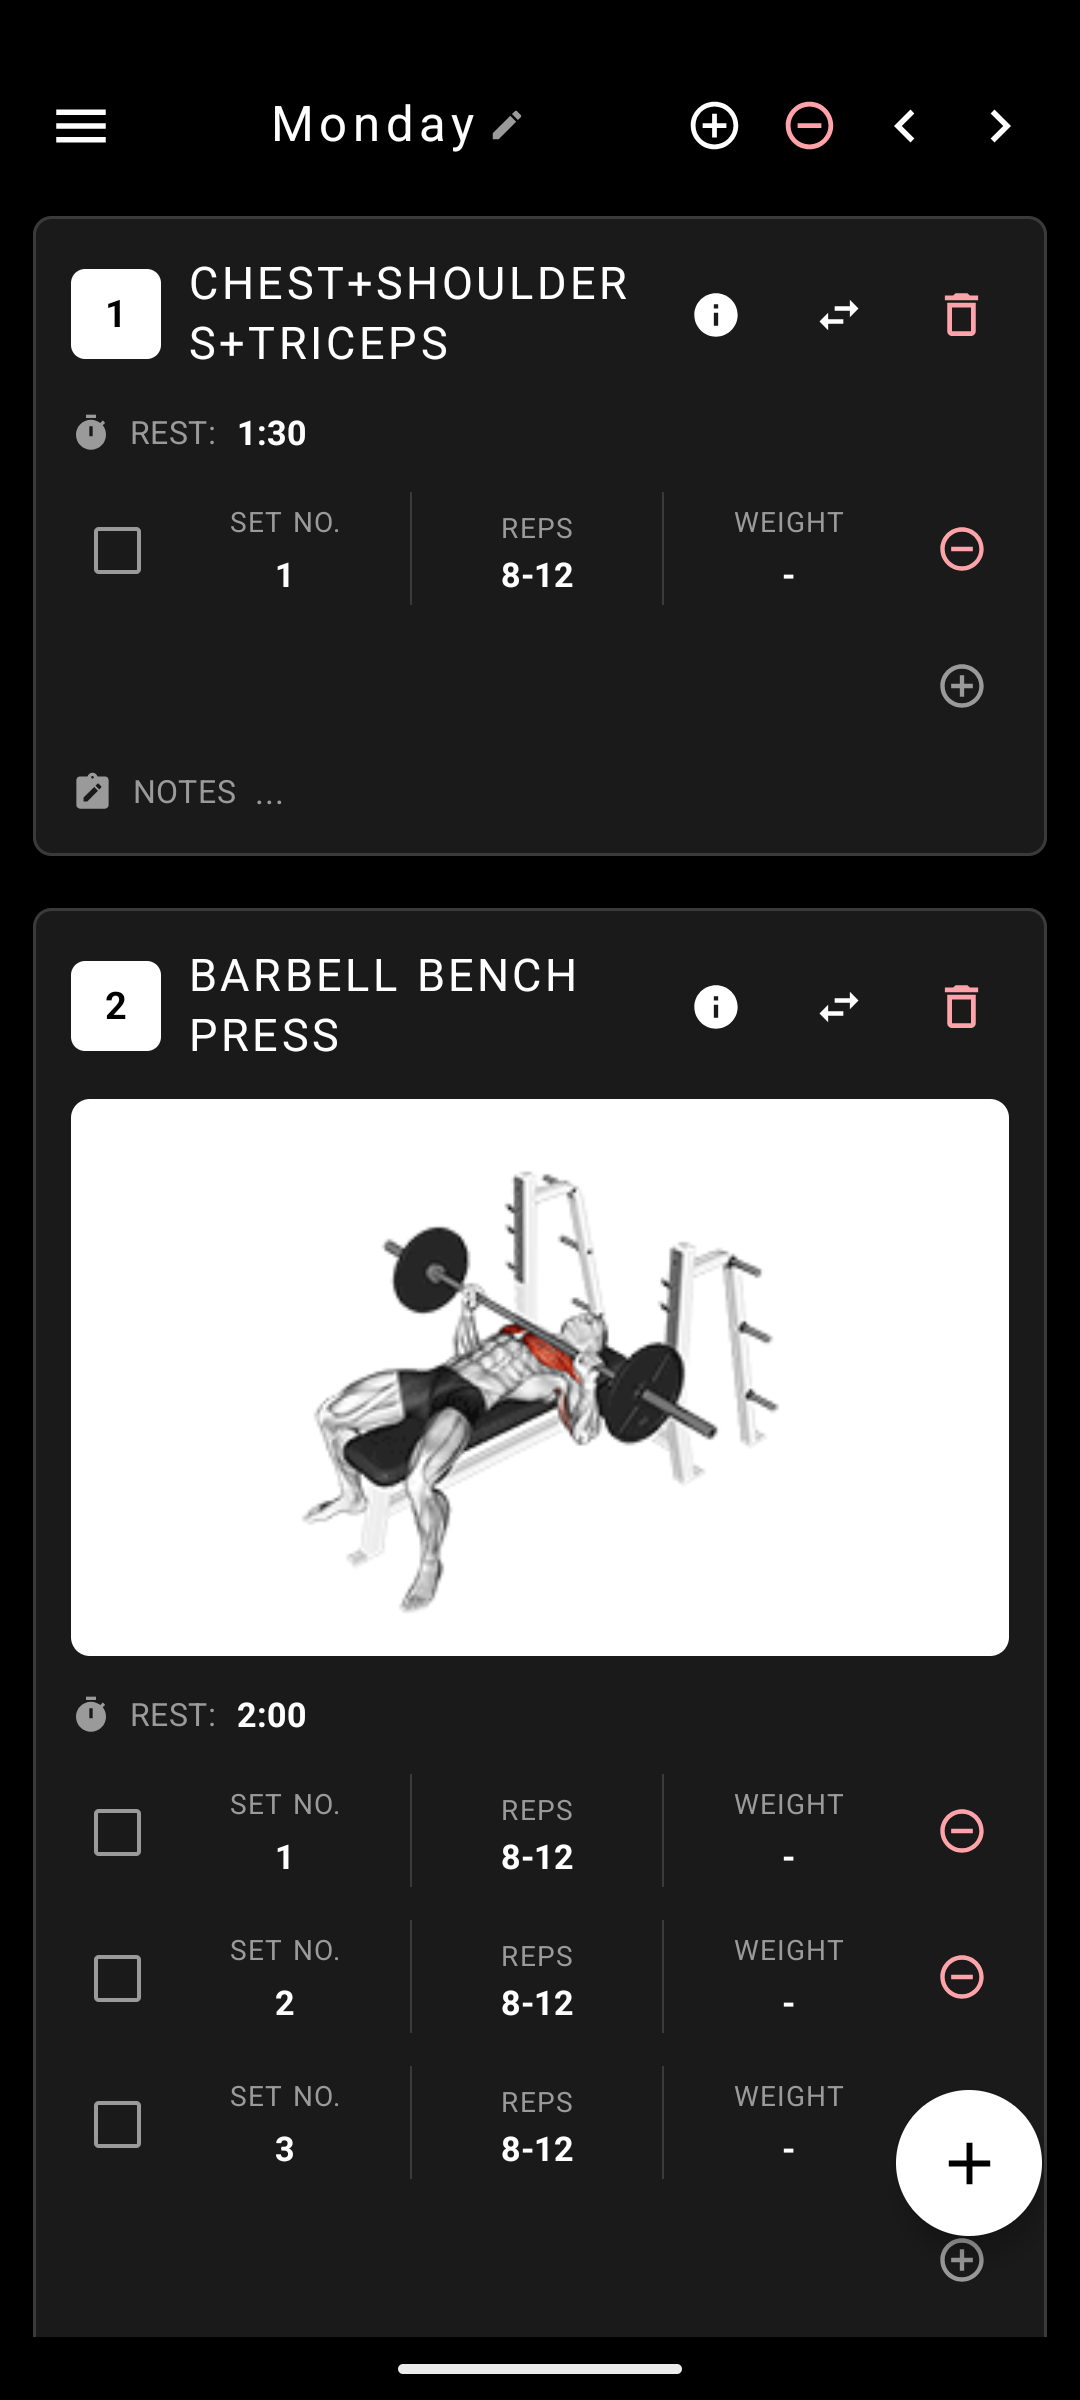
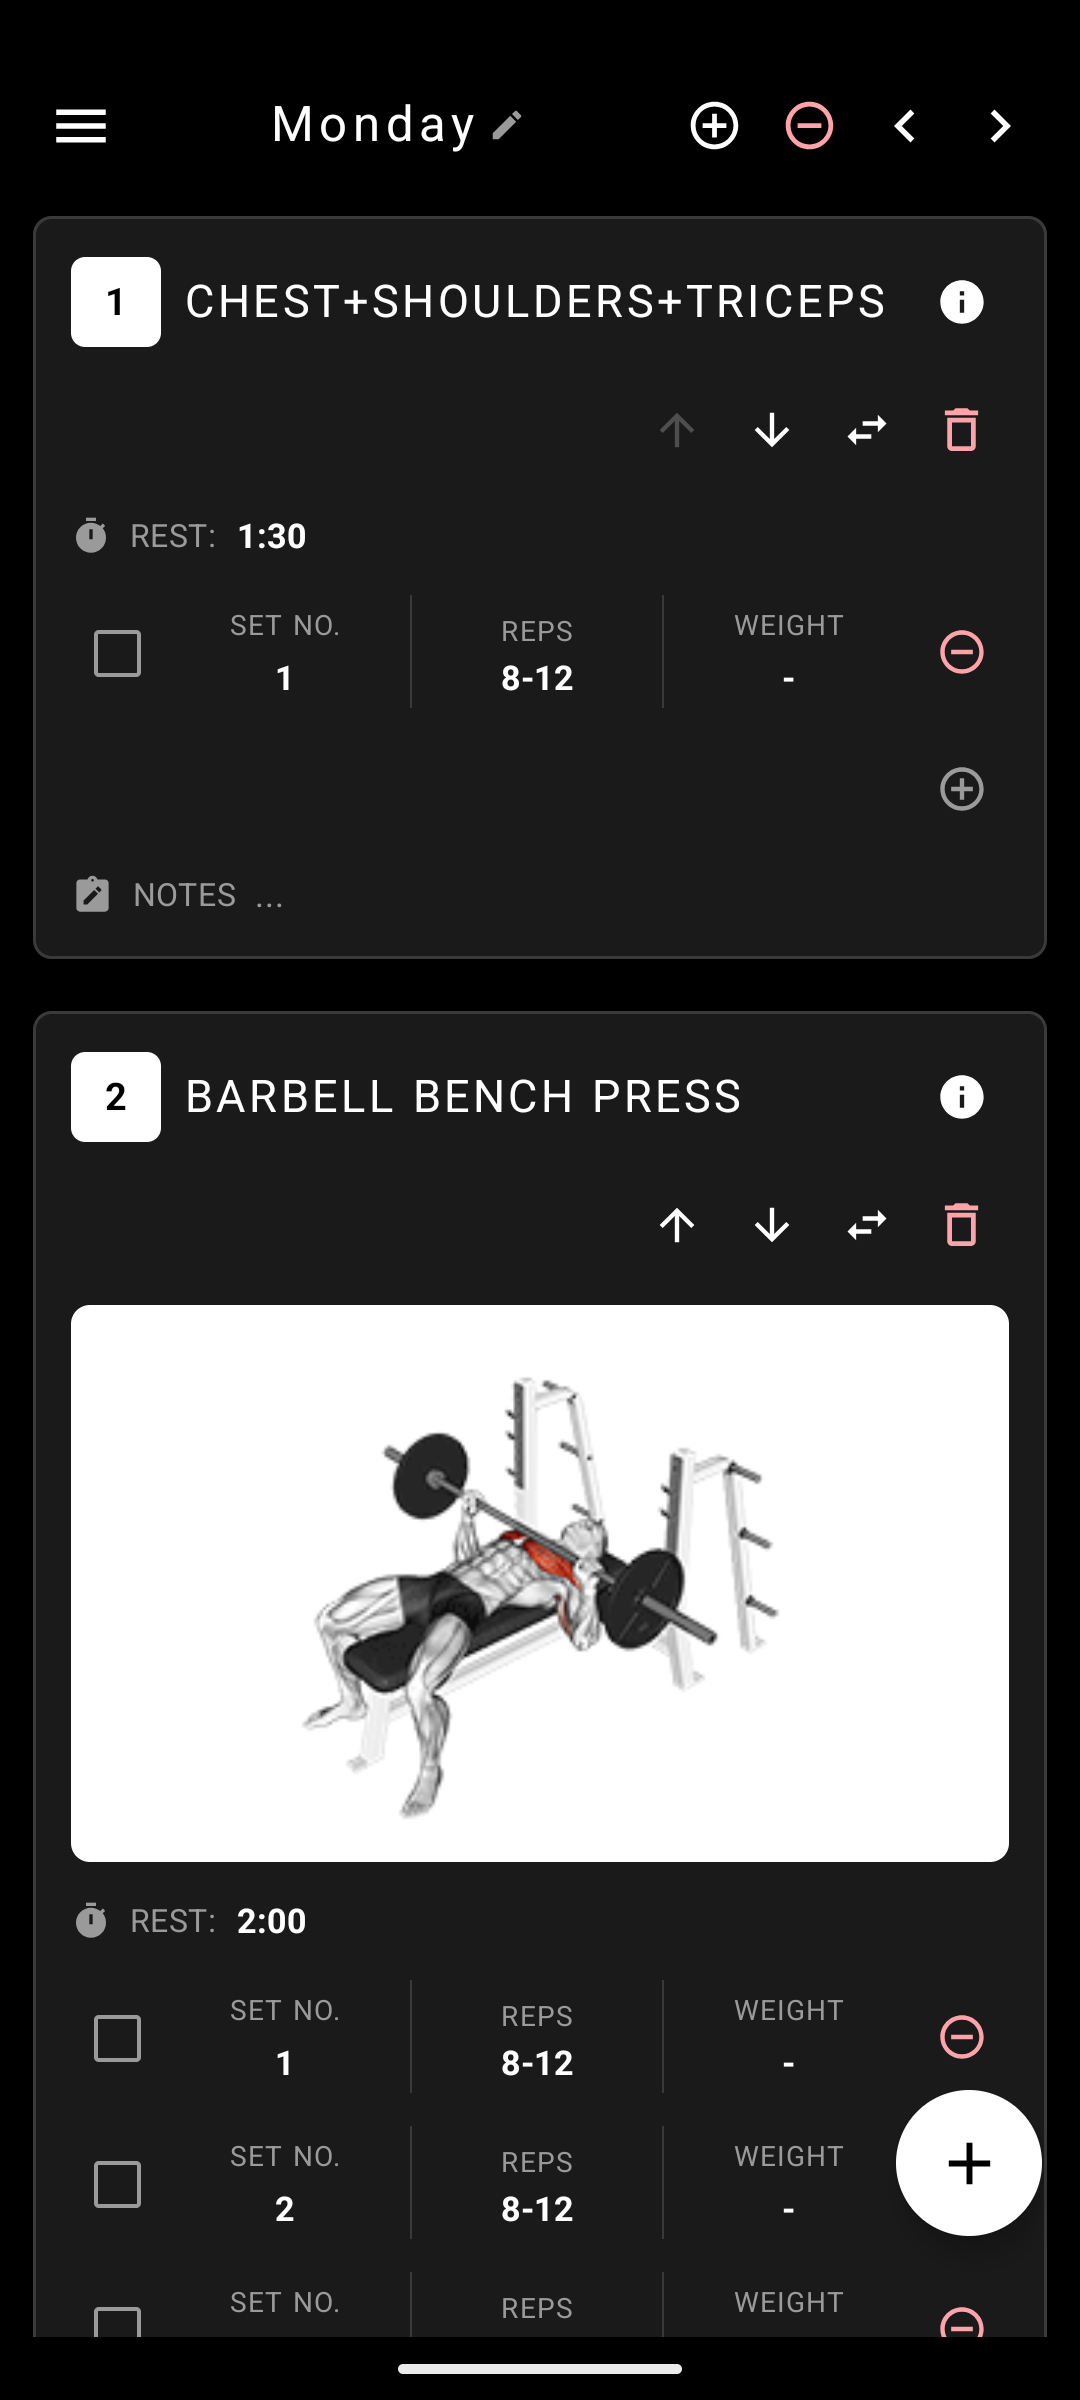
Update README.md and docs images

diff --git a/README.md b/README.md
@@ -7,84 +7,112 @@
 <p align="center">
   A minimal, offline-first gym workout tracker built with Jetpack Compose.
   <br />
-  Create routines, organize workout days, track sets &amp; reps — all from your pocket.
+  Create routines, organize workout days, choose exercises, and track sets, reps, weight, rest, and notes.
 </p>
 
 <p align="center">
   <img src="https://img.shields.io/badge/Platform-Android-3DDC84?logo=android&logoColor=white" alt="Platform" />
   <img src="https://img.shields.io/badge/Min_SDK-26_(Oreo)-blue" alt="Min SDK" />
-  <img src="https://img.shields.io/badge/Kotlin-2.3-7F52FF?logo=kotlin&logoColor=white" alt="Kotlin" />
+  <img src="https://img.shields.io/badge/Kotlin-2.3.21-7F52FF?logo=kotlin&logoColor=white" alt="Kotlin" />
   <img src="https://img.shields.io/badge/Jetpack_Compose-Material_3-4285F4?logo=jetpackcompose&logoColor=white" alt="Compose" />
   <img src="https://img.shields.io/badge/License-Unlicensed-lightgrey" alt="License" />
 </p>
 
 ---
 
-## ✨ Features
+## Features
 
-### Media Support
-- **Animated GIF previews** — built-in exercises display animated GIF demonstrations loaded from the web.
-- **Custom exercise media** — attach images, GIFs, or short videos (≤ 30s) from your phone or via direct URL.
-- **Video playback** — inline video player with fullscreen mode, powered by ExoPlayer (Media3).
-- **Smart caching** — 256 MB disk cache for both images (Coil) and videos (ExoPlayer) to minimize bandwidth usage.
+### Exercise GIF Previews
+- **Built-in exercise demos** - bundled exercise records include remote GIF URLs for visual previews.
+- **Coil GIF loading** - GIFs are rendered with Coil using ImageDecoder on API 28+ and GifDecoder fallback on older supported devices.
+- **Smart image caching** - a shared Coil image loader uses memory caching plus a 256 MB disk cache to reduce repeat network loading.
+- **Graceful fallback** - missing or failed GIFs show a simple exercise placeholder.
 
-<p align="center">
-  <img src="./docs/images/img1.png" width="220" alt="Media" />
-</p>
-
+<table align="center">
+  <tr>
+    <td><img src="./docs/images/img1.png" width="220"/></td>
+    <td><img src="./docs/images/img2.png" width="220"/></td>
+  </tr>
+</table>
 
 ### Routine Management
-- **Create & organize routines** — build named workout routines with multiple days (e.g. Push Day, Pull Day, Legs & Core).
-- **Multi-day workouts** — each routine supports multiple workout days, navigable via horizontal swipe paging.
-- **Rename & delete** — easily edit routine and day names, or remove them entirely.
-- **Navigation drawer** — quickly switch between routines from any workout screen.
+- **Create and manage routines** - add, rename, delete, export, and import routines from the routine list.
+- **Multi-day workouts** - each routine can contain multiple workout days with swipe paging and previous/next controls.
+- **Day controls** - add, rename, or remove workout days while staying inside the active routine.
+- **Navigation drawer** - switch routines or jump back to routine management from the workout screen.
 
 <p align="center">
-  <img src="./docs/images/img2.png" width="220" alt="RoutineImage" />
-</p>
-
-### Exercise Library
-- **1,300+ built-in exercises** — a comprehensive database loaded from a bundled JSON asset, searchable by name, body part, equipment, and muscle group.
-- **Category filtering** — filter exercises by Chest, Back, Shoulders, Legs/Glutes, Biceps, Triceps, Core, or view custom exercises only.
-- **Exercise info dialog** — view detailed instructions, target muscles, secondary muscles, equipment, and body parts for any built-in exercise.
-- **Custom exercises** — create your own exercises with a name, default sets/reps/rest, and optional media (image, GIF, or video).
-
-<p align="center">
-  <img src="./docs/images/img3.png" width="220" alt="Exercises" />
+  <img src="./docs/images/img3.png" width="220" alt="RoutineImage" />
 </p>
 
 ### Workout Tracking
-- **Sets, reps & weight** — track individual sets with inline-editable reps and weight fields.
-- **Set completion** — check off sets as you complete them.
-- **Rest timer** — automatic countdown timer triggered on set completion, with haptic vibration feedback when rest is over.
-- **Notes** — add per-exercise notes for form cues or reminders.
-- **Swap exercises** — swap any exercise in your routine for a different one, preserving your existing sets.
+- **Sets, reps, and weight** - track each set with editable reps and weight fields.
+- **Set completion** - check off completed sets as you train.
+- **Rest timer** - completing a set can start a rest countdown, with vibration feedback when the timer finishes.
+- **Notes** - store per-exercise notes for cues, setup details, or reminders.
+- **Exercise ordering** - move exercises up or down, delete individual exercises, or swap them for another exercise.
+- **Bulk actions** - select multiple exercises to copy, cut, paste, or delete across workout days.
 
-### Data & Backup
-- **Offline-first** — all data is stored locally via SharedPreferences. No account or internet connection required.
-- **Export/Import** — export all routines and custom exercises as a versioned JSON backup file, and import them on any device.
-- **Merge imports** — imported routines are added alongside existing ones; duplicate custom exercises are deduplicated by content signature.
+### Exercise Library
+- **1,300+ built-in exercises** - exercise metadata is loaded from a bundled JSON asset and parsed once at startup.
+- **Search** - find exercises by name, body part, equipment, target muscle, or secondary muscle.
+- **Category filters** - browse All, Custom, Chest, Back, Legs/Glutes, Biceps, Triceps, Shoulders, and Core.
+- **Exercise details** - view body parts, equipment, target muscles, secondary muscles, and instructions for built-in exercises.
+- **Custom exercises** - create, edit, and delete your own exercises with name, set count, reps, and rest defaults.
+- **Add or swap** - add exercises to a workout day or swap an existing routine exercise from the same picker.
+
+<table align="center">
+  <tr>
+    <td><img src="./docs/images/img4.png" width="220"/></td>
+    <td><img src="./docs/images/img5.png" width="220"/></td>
+  </tr>
+</table>
+
+Category filters are applied to the bundled exercise JSON like this:
+
+| Selected category | Exercise JSON match |
+|---|---|
+| **All** | No category filter; shows all built-in exercises that match the search text. |
+| **Custom** | Shows local custom exercises only; custom search matches the custom exercise name. |
+| **Chest** | `bodyParts` contains `chest`, or `targetMuscles` contains `pectorals`, or `secondaryMuscles` contains `chest`. |
+| **Back** | `bodyParts` contains `back`, or `targetMuscles` contains `lats`, `upper back`, or `spine`. |
+| **Legs/Glutes** | `bodyParts` contains `upper legs` or `lower legs`, or `targetMuscles` contains `glutes`, `quads`, `hamstrings`, `calves`, or `abductors`. |
+| **Biceps** | `targetMuscles` or `secondaryMuscles` contains `biceps`. |
+| **Triceps** | `targetMuscles` or `secondaryMuscles` contains `triceps`. |
+| **Shoulders** | `bodyParts` contains `shoulders`, or `targetMuscles` contains `delts`, or `secondaryMuscles` contains `shoulders`. |
+| **Core** | `bodyParts` contains `waist`, or `targetMuscles` contains `abs`, or `secondaryMuscles` contains `core` or `obliques`. |
+
+
+### Data and Backup
+- **Offline-first workout data** - routines and custom exercises are stored locally with SharedPreferences.
+- **Bundled exercise metadata** - the core exercise library ships with the app; only remote GIF previews need network access.
+- **Versioned backups** - export all routines and custom exercises as JSON.
+- **Merge imports** - imported routines are added alongside existing routines, while duplicate custom exercises are deduplicated by content signature.
+
+<p align="center">
+  <img src="./docs/images/img6.png" width="220" alt="RoutineImage" />
+</p>
 
 ---
 
-### Key Design Decisions
+## Key Design Decisions
 
 | Decision | Rationale |
 |---|---|
-| **Single-activity, Compose-only** | Leverages Navigation Compose for all routing; no fragments. |
-| **SharedPreferences for storage** | Keeps the app lightweight with zero database dependencies. A versioned JSON schema (`PersistedAppState`) handles migrations. |
-| **Bundled exercise JSON** | The ~1.4 MB asset file is parsed once at startup and cached in-memory, avoiding network calls for the core library. |
-| **0.9x density scaling** | `APP_SCALE` in `MainActivity` slightly shrinks the UI to fit more content on screen — a deliberate density override. |
-| **ExoPlayer (Media3) for video** | Provides reliable playback with disk caching for web-sourced exercise videos. |
-| **Coil for images/GIFs** | Efficient image loading with GIF animation support (ImageDecoder on API 28+, GifDecoder fallback). |
+| **Single-activity, Compose-only UI** | Navigation Compose handles the app flow without fragments. |
+| **SharedPreferences storage** | Keeps the app lightweight with no database dependency; `PersistedAppState` provides a versioned JSON format. |
+| **Bundled exercise JSON** | The exercise library is available without a live API and is cached in memory after startup parsing. |
+| **Coil for GIF previews** | Provides animated GIF rendering and a shared 256 MB disk cache for remote exercise demos. |
+| **0.9x density scaling** | `APP_SCALE` in `MainActivity` slightly shrinks the UI so workout controls fit more comfortably on screen. |
+| **JSON import/export** | Backups remain readable, portable, and easy to merge across devices. |
 
 ---
 
-## 🚀 Getting Started
+## Getting Started
 
 ### Prerequisites
 
-- **Android Studio** 
+- **Android Studio**
 - **JDK 11** or higher
 - **Android SDK** with API 36 installed
 
@@ -102,7 +130,9 @@ cd gymuu
 ./gradlew installDebug
 ```
 
-Or simply open the project in Android Studio and click **Run ▶**.
+On Windows, use `.\gradlew.bat assembleDebug` and `.\gradlew.bat installDebug`.
+
+You can also open the project in Android Studio and click **Run**.
 
 ### Release Build
 
@@ -112,22 +142,22 @@ The release build type has code shrinking (`isMinifyEnabled`) and resource shrin
 ./gradlew assembleRelease
 ```
 
-> **Note:** You'll need to configure a signing key in `app/build.gradle.kts` or via `keystore.properties` before building a signed release APK.
+Configure signing in Android Studio or in `app/build.gradle.kts` before producing a distributable signed APK.
 
 ---
 
-## 📱 Screens
+## Screens
 
 | Screen | Description |
 |---|---|
-| **Routine Launch** | Splash/loading screen that auto-navigates to the first routine's first day. |
-| **Workout Day** | Main workout view with swipeable day pager, exercise cards, set tracking, and rest timer. |
-| **Routine List** | Manage all routines — create, edit, delete, export, and import backups. |
-| **Select Exercise** | Browse and search the exercise library with category filters; add or swap exercises. |
+| **Routine Launch** | Loading screen that opens the first available routine day. |
+| **Routine List** | Manage routines, create new routines, and export/import JSON backups. |
+| **Workout Day** | Main workout view with day paging, routine drawer navigation, exercise cards, set tracking, rest timer, notes, and bulk actions. |
+| **Select Exercise** | Browse, search, filter, add, swap, and manage custom exercises. |
 
 ---
 
-## 🤝 Contributing
+## Contributing
 
 1. Fork the repository
 2. Create a feature branch (`git checkout -b feature/awesome-feature`)
@@ -137,12 +167,12 @@ The release build type has code shrinking (`isMinifyEnabled`) and resource shrin
 
 ---
 
-## 📄 License
+## License
 
 This project is currently unlicensed. All rights reserved by the author.
 
 ---
 
 <p align="center">
-  Made with ❤ by <a href="https://github.com/JitishxD">Jitish</a>
+  Made with care by <a href="https://github.com/JitishxD">Jitish</a>
 </p>
